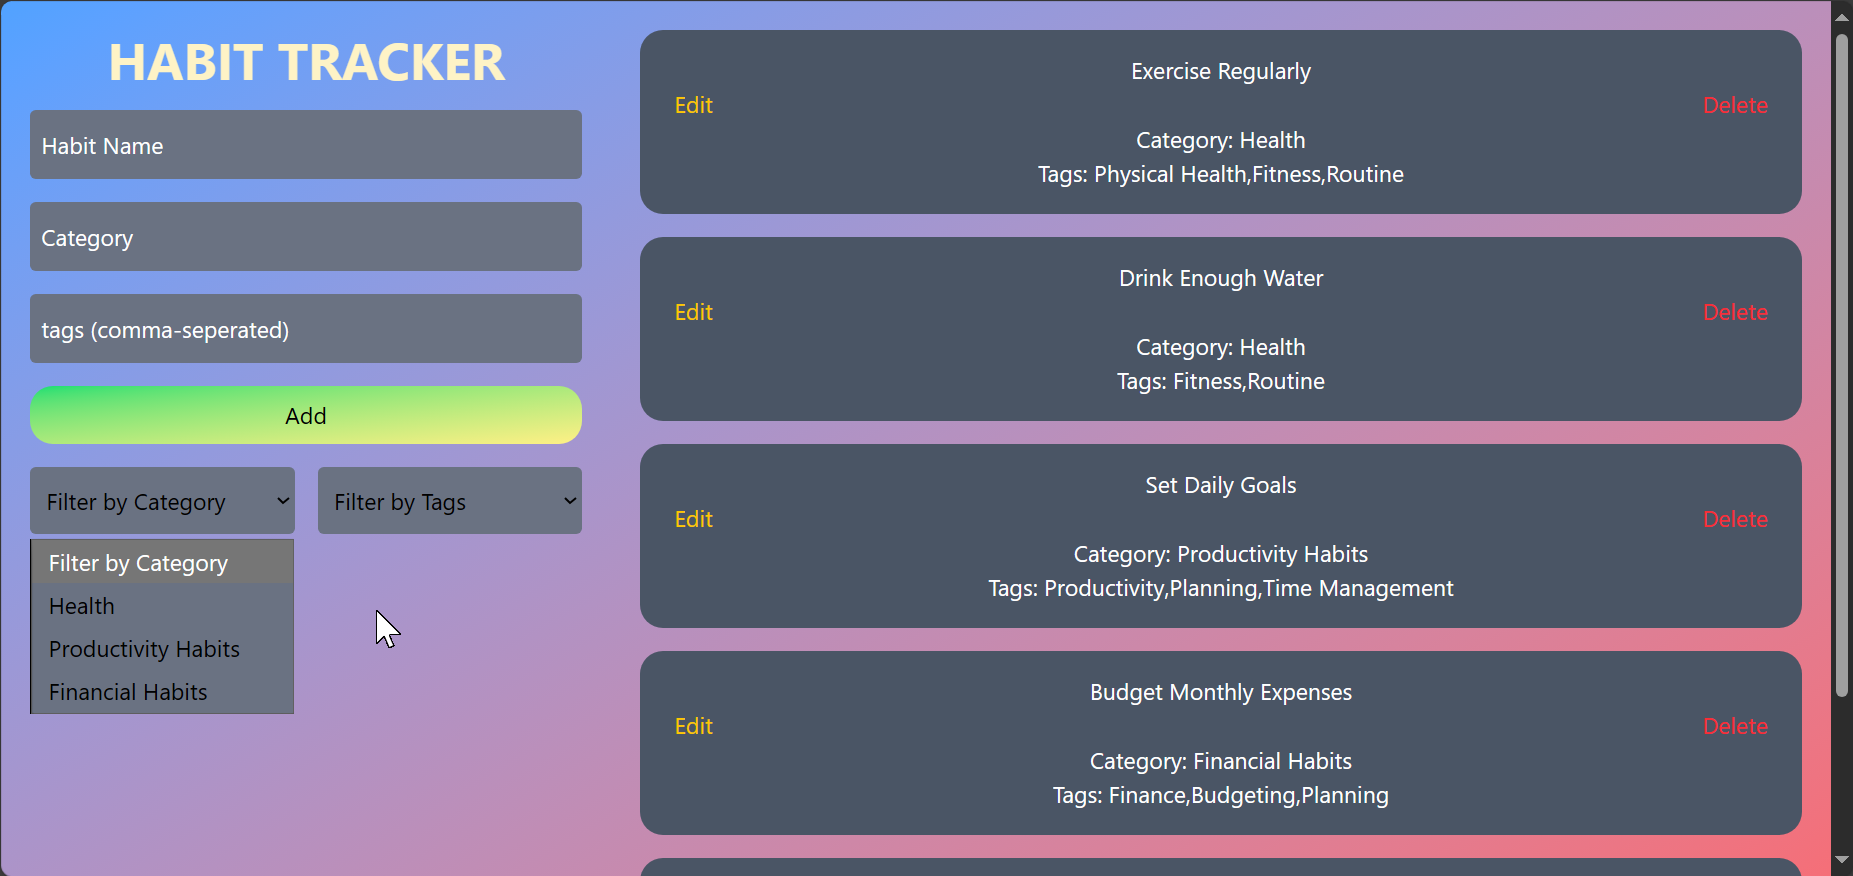
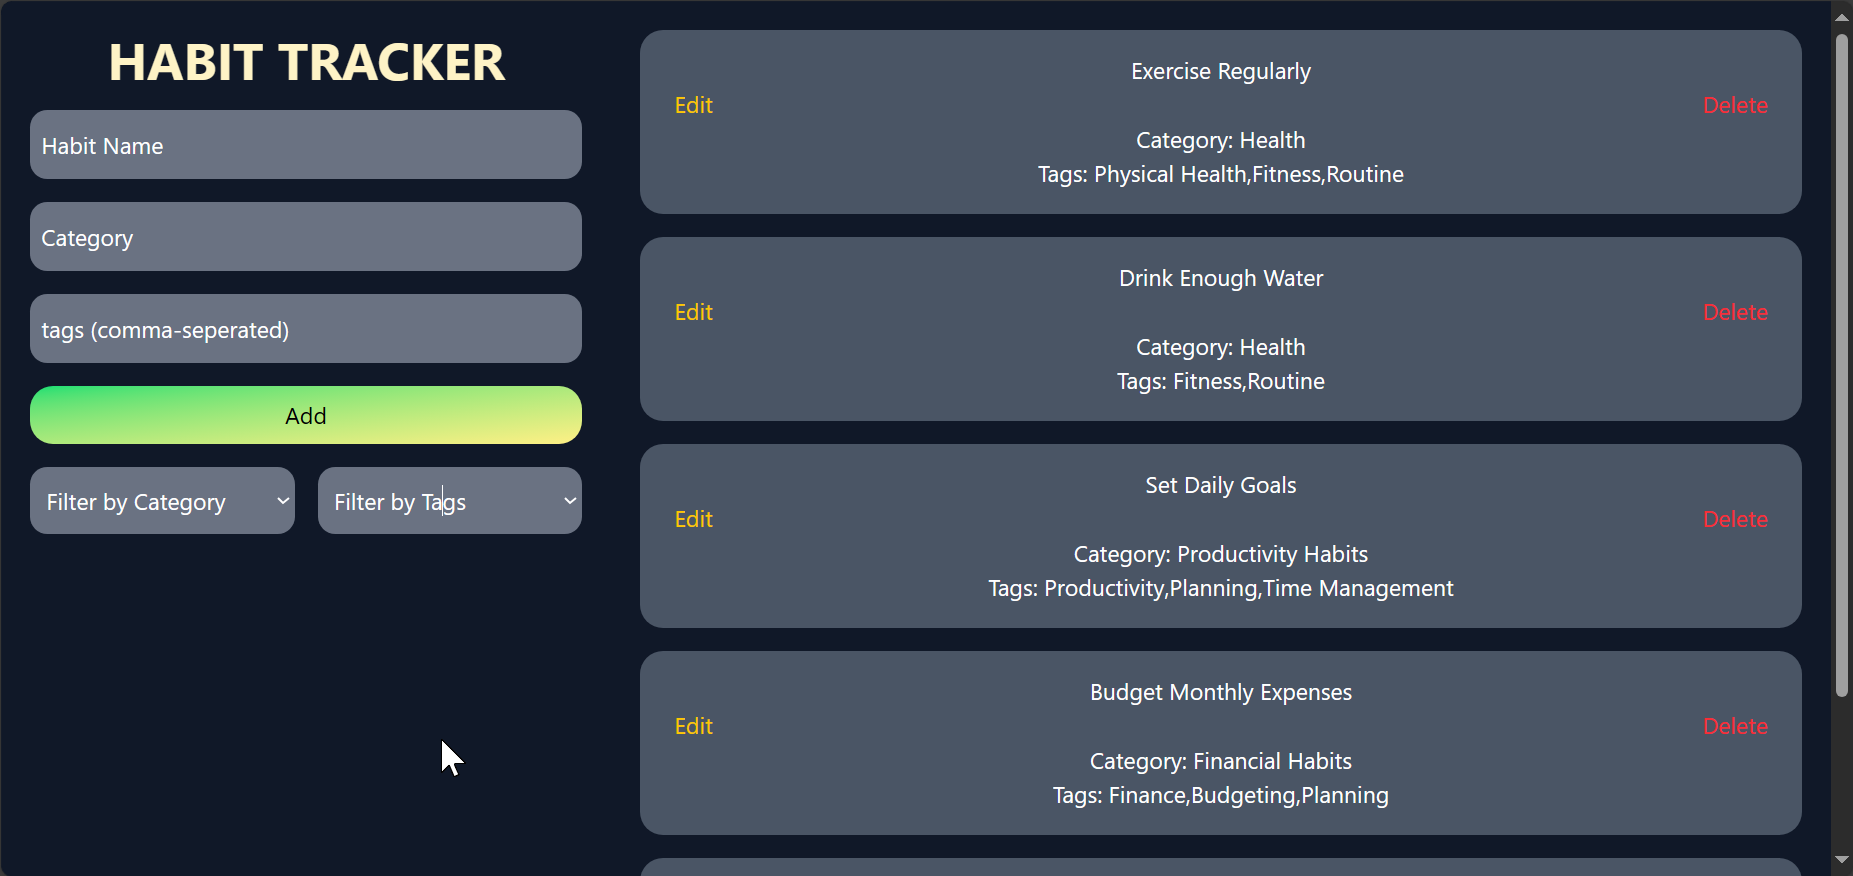
screenshot

diff --git a/Front/src/App.jsx b/Front/src/App.jsx
@@ -133,21 +133,21 @@ function App() {
           <input
             type="text"
             placeholder="Habit Name"
-            className="bg-gray-500 rounded px-2 py-3 placeholder-white"
+            className="bg-gray-500 rounded-xl px-2 py-3 placeholder-white"
             value={hname}
             onChange={(e) => setHname(e.target.value)}
           ></input>
           <input
             type="text"
             placeholder="Category"
-            className="bg-gray-500 rounded px-2 py-3 placeholder-white"
+            className="bg-gray-500 rounded-xl px-2 py-3 placeholder-white"
             value={category}
             onChange={(e) => setCategory(e.target.value)}
           ></input>
           <input
             type="text"
             placeholder="tags (comma-seperated)"
-            className="bg-gray-500 rounded px-2 py-3 placeholder-white"
+            className="bg-gray-500 rounded-xl px-2 py-3 placeholder-white"
             value={tags}
             onChange={(e) => setTags(e.target.value)}
           ></input>
@@ -163,7 +163,7 @@ function App() {
             <select
               name="category"
               id=""
-              className="w-1/2 bg-gray-500 rounded px-2 py-3"
+              className="w-1/2 bg-gray-500 text-white rounded-xl px-2 py-3"
               onChange={(e) => setFilterCat(e.target.value)}
             >
               {/* {console.log(filterCat)} */}
@@ -181,7 +181,7 @@ function App() {
             <select
               name="tags"
               id=""
-              className="w-1/2 bg-gray-500 rounded px-2 py-3"
+              className="w-1/2 bg-gray-500 rounded-xl text-white px-2 py-3"
               onChange={(e) => setFilterTag(e.target.value)}
             >
               {/* {console.log(filterTag)} */}
